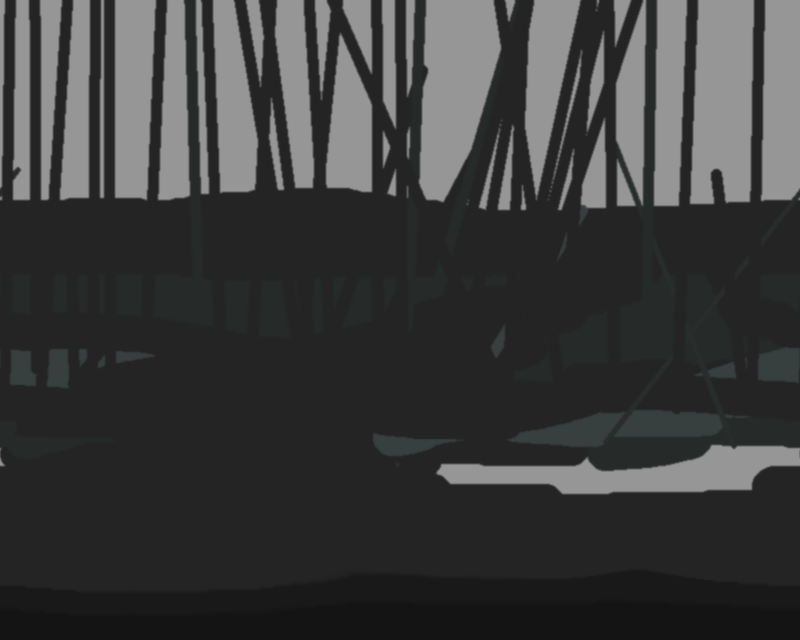
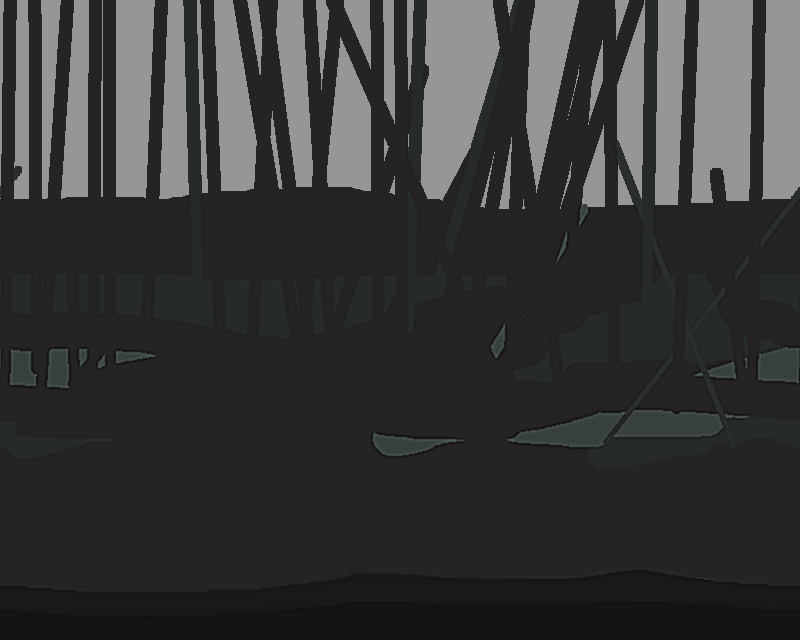
Updated bamboo level assets and adjusted code acordingly

diff --git a/game/layer.py b/game/layer.py
@@ -36,9 +36,9 @@ level0_layer1 = Layer(pygame.image.load(os.path.join("..", "assets", "graphics",
 
 # level1
 level1_layer0 = Layer(pygame.image.load(os.path.join("..", "assets", "graphics", "levels", "level1_layer0.png")), scroll_multiplier=0.1)
-level1_layer1 = Layer(pygame.image.load(os.path.join("..", "assets", "graphics", "levels", "level1_layer1.png")), scroll=1, scroll_multiplier=0.2)
+level1_layer1 = Layer(pygame.image.load(os.path.join("..", "assets", "graphics", "levels", "level1_layer1.png")), scroll=-1, scroll_multiplier=0.2)
 level1_layer2 = Layer(pygame.image.load(os.path.join("..", "assets", "graphics", "levels", "level1_layer2.png")), scroll_multiplier=0.4)
-level1_layer3 = Layer(pygame.image.load(os.path.join("..", "assets", "graphics", "levels", "level1_layer3.png")), scroll=1, scroll_multiplier=0.5)
+level1_layer3 = Layer(pygame.image.load(os.path.join("..", "assets", "graphics", "levels", "level1_layer3.png")), scroll=-1.5, scroll_multiplier=0.5)
 level1_layer4 = Layer(pygame.image.load(os.path.join("..", "assets", "graphics", "levels", "level1_layer4.png")), scroll_multiplier=0.7)
 level1_layer5 = Layer(pygame.image.load(os.path.join("..", "assets", "graphics", "levels", "level1_layer5.png")))
 level1_layer6 = Layer(pygame.image.load(os.path.join("..", "assets", "graphics", "levels", "level1_layer6.png")))

diff --git a/game/main.py b/game/main.py
@@ -29,11 +29,11 @@ def main():
             engine.get_player_input(event)
         engine.controller.set_player_state()
         engine.update_scroll()
-        screen.fill((110, 110, 110))
+        # screen.fill((110, 110, 110))
         engine.update_player()
         View.render(screen, engine.get_layers_for_blit())
         pygame.display.flip()
-        clock.tick(60)
+        clock.tick(90)
         if char.frame == 0:
             print(f"FPS: {int(clock.get_fps())}")
 
